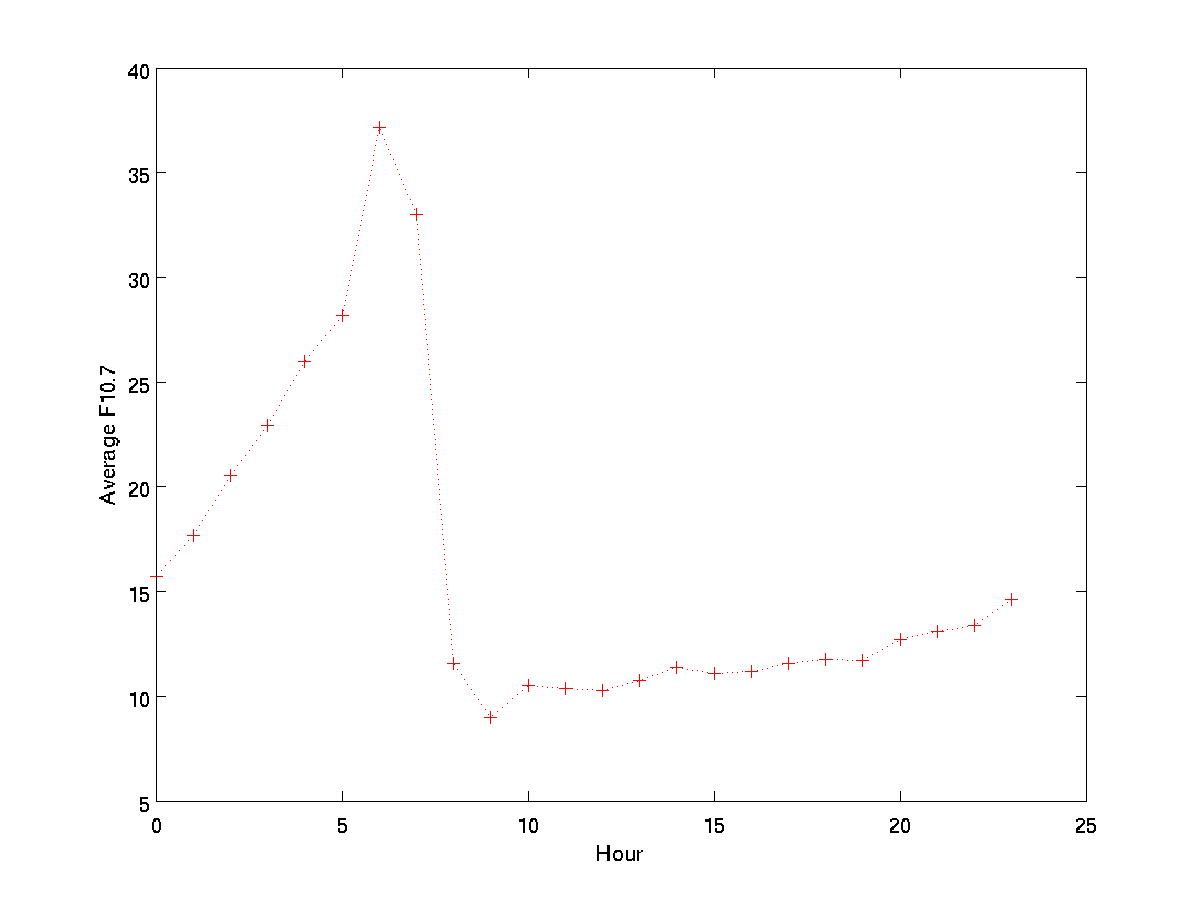
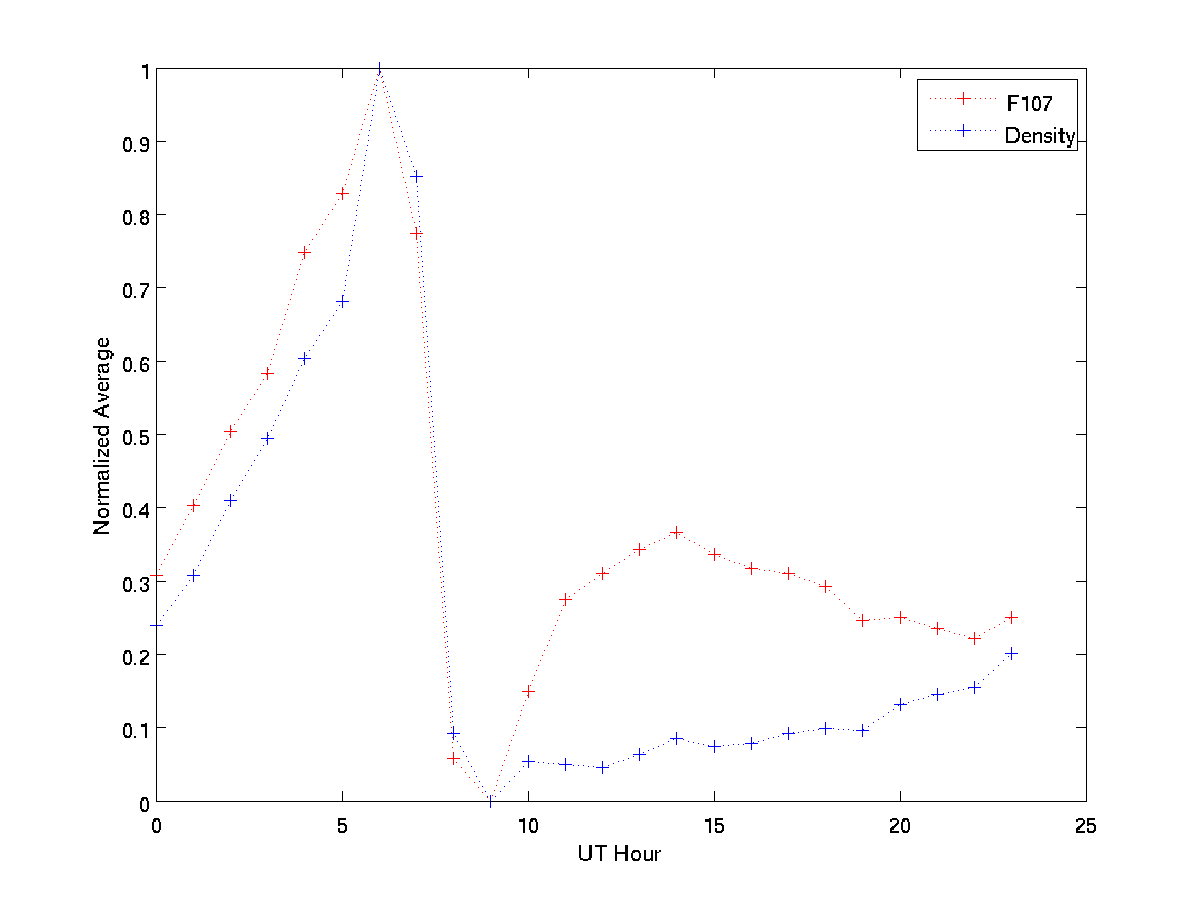
Updated f107

diff --git a/Density.m b/Density.m
@@ -171,13 +171,18 @@ visible='off';
 if(MakePlots)
     Hr=hour(DentonTime);
     for i=0:23
-   avf107(i+1)=mean(F107(Hr==i));
-   avf107(i+1)=mean(MassDensity(Hr==i));
+        avf107(i+1)=mean(F107(Hr==i));
+        avdens(i+1)=mean(MassDensity(Hr==i));
     end
+    avf107=(avf107-min(avf107))/(max(avf107)-min(avf107));
+    avdens=(avdens-min(avdens))/(max(avdens)-min(avdens));
     h=figure('Visible',visible);
     plot(0:23,avf107,'r+:')
-    xlabel('Hour')
-    ylabel('Average F10.7')
+    hold on
+    plot(0:23,avdens,'b+:')
+    legend('F107','Density')
+    xlabel('UT Hour')
+    ylabel('Normalized Average')
     print '-dpng' 'figures/avf107.png'
 end
 
